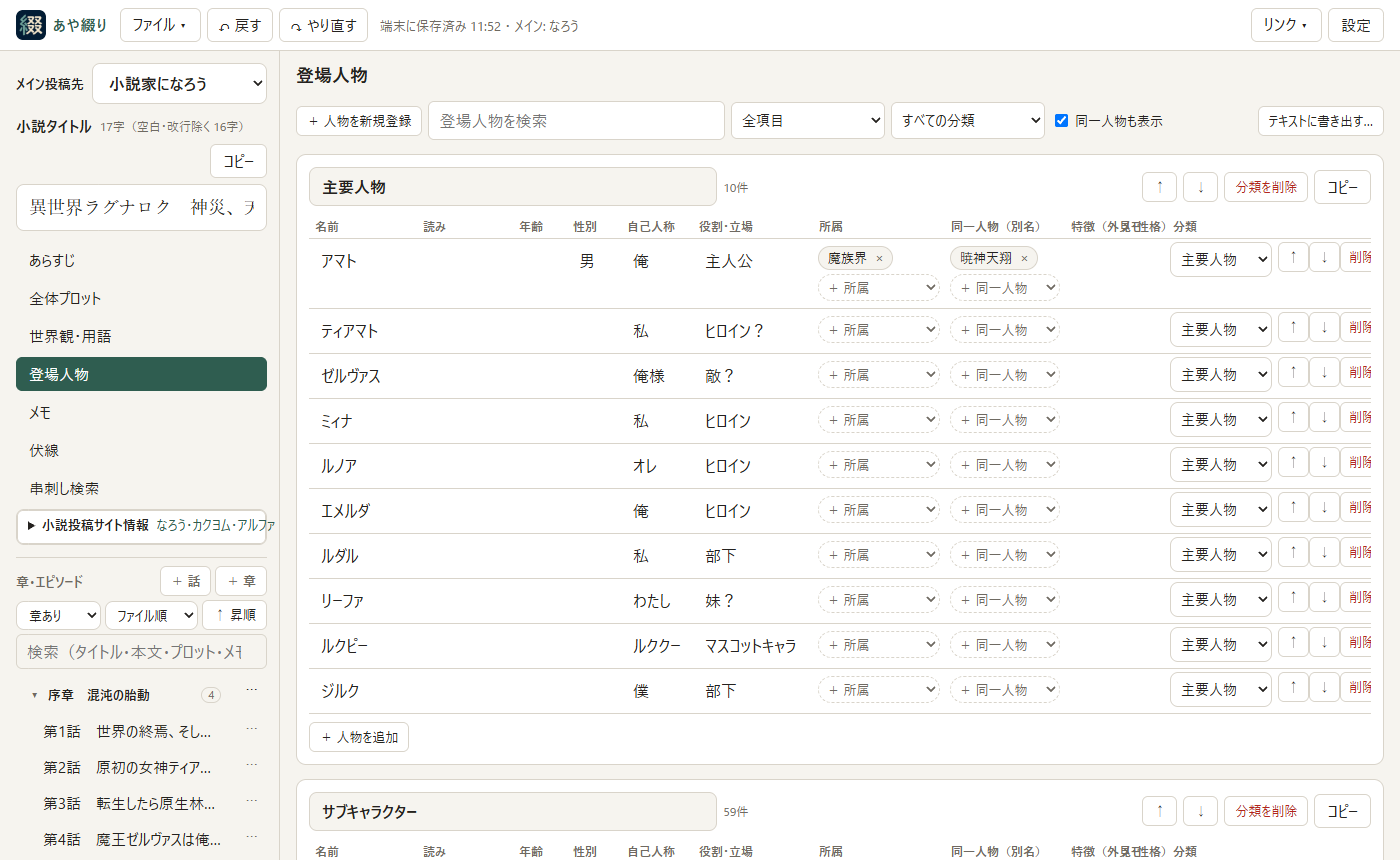
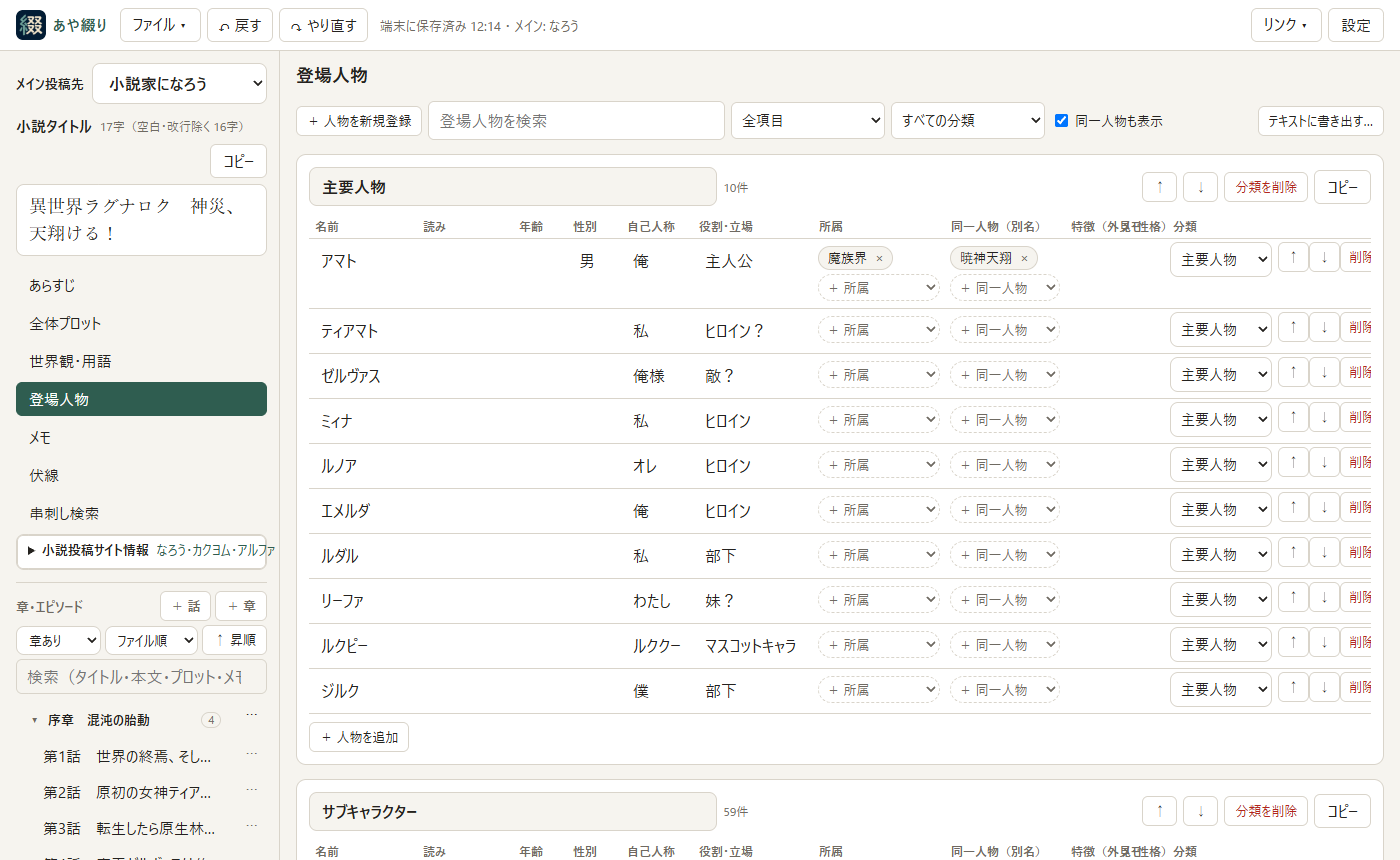
Add files via upload

Changed region(s): [[0.0, 0.514, 0.215, 1.0], [0.0, 0.2116, 0.215, 0.4837], [0.1536, 0.2419, 0.1843, 0.2721]]

diff --git a/js/app.js b/js/app.js
@@ -329,8 +329,17 @@ function setXCount() {
   c.classList.toggle('over', n > 280);
 }
 
+// 小説タイトルの欄の高さを、折り返した中身に合わせる（0.97）
+function fitNovelTitle() {
+  const t = el.novelTitle;
+  if (!t.offsetParent) return; // 隠れているとき（スマートフォンの目次を閉じているとき）は、見えたときに合わせる
+  t.style.height = 'auto';
+  t.style.height = `${t.scrollHeight + t.offsetHeight - t.clientHeight}px`;
+}
+
 function updateCounts() {
   setCount('novel-title', el.novelTitle.value);
+  fitNovelTitle();
   setCount('synopsis', el.synopsis.value);
   setCount('project-memo', el.projectMemo.value);
   setCount('ep-title', el.epTitle.value);
@@ -6040,6 +6049,19 @@ function bindSidebarSplitter() {
 function bindEvents() {
   $('busy-dialog').addEventListener('cancel', (e) => e.preventDefault());
   bindProjectNavOrder();
+  // 小説タイトルは折り返して見せるが、1行の題名なので改行は入れない（貼り付けた改行も除く）。0.97
+  el.novelTitle.addEventListener('keydown', (e) => {
+    if (e.key === 'Enter' && !e.isComposing && e.keyCode !== 229) e.preventDefault();
+  });
+  el.novelTitle.addEventListener('input', () => {
+    const t = el.novelTitle;
+    if (!/[\r\n]/.test(t.value)) return;
+    const pos = t.selectionStart - (t.value.slice(0, t.selectionStart).match(/[\r\n]/g) || []).length;
+    t.value = t.value.replace(/[\r\n]+/g, '');
+    t.setSelectionRange(pos, pos);
+  });
+  // 欄の幅が変わったら（画面の幅・目次の幅・スマートフォンの目次を開いたとき）、高さを合わせ直す
+  if (window.ResizeObserver) new ResizeObserver(() => fitNovelTitle()).observe(el.novelTitle);
   for (const [input, apply] of bindings) {
     input.addEventListener('input', () => {
       apply(input.value);

diff --git a/styles.css b/styles.css
@@ -346,6 +346,8 @@ textarea {
   font-size: var(--body-size);
   line-height: 1.9;
 }
+/* 小説タイトル：長いタイトルも欄の中で折り返して全部見せる（改行は入れない。高さは中身に合わせる：0.97） */
+textarea#novel-title { flex: none; resize: none; overflow: hidden; line-height: 1.5; font-size: 18px; }
 #plot, #memo, #x-text, #narou-report-body { font-size: max(16px, calc(var(--body-size) - 2px)); line-height: 1.7; }
 
 .panes {

diff --git a/index.html b/index.html
@@ -68,7 +68,7 @@
         <span class="count" id="count-novel-title"></span>
         <button type="button" class="copy" data-copy="novel-title">コピー</button>
       </div>
-      <input id="novel-title" type="text" autocomplete="off" placeholder="作品タイトル">
+      <textarea id="novel-title" rows="1" autocomplete="off" placeholder="作品タイトル"></textarea>
     </section>
 
     <nav class="nav">

diff --git a/sw.js b/sw.js
@@ -1,6 +1,6 @@
 // オフラインでも起動できるよう、アプリ本体をキャッシュする。
 // ファイルを更新したら VERSION を上げる。
-const VERSION = 'v164';
+const VERSION = 'v165';
 const CACHE = 'novel-editor-' + VERSION;
 const SHELL = [
   './',
